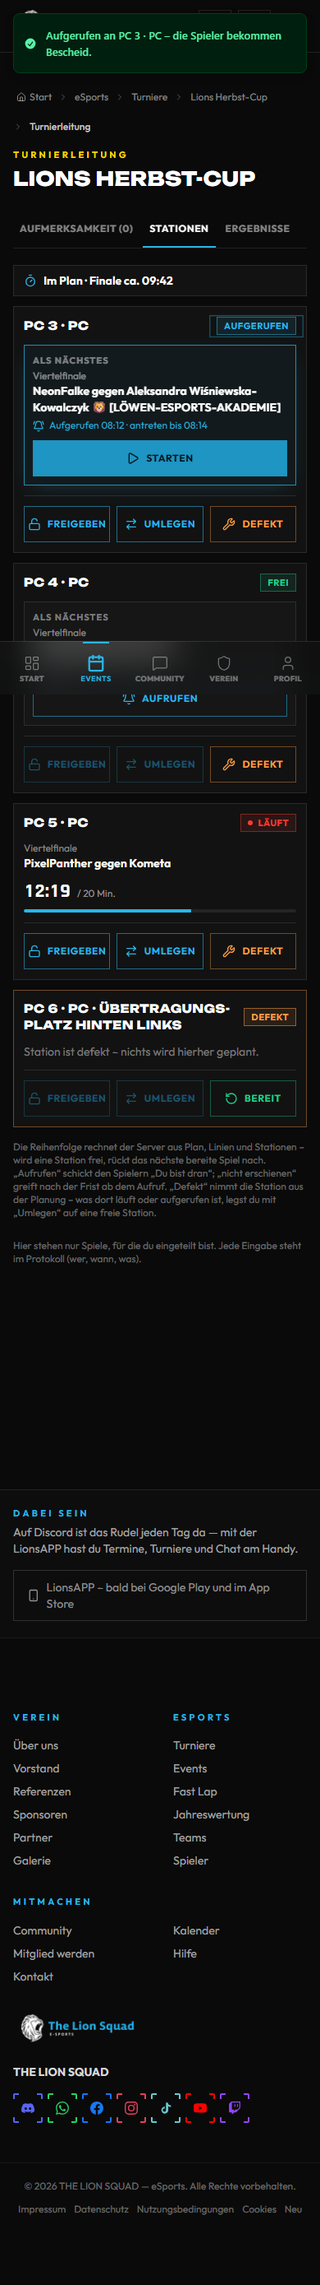
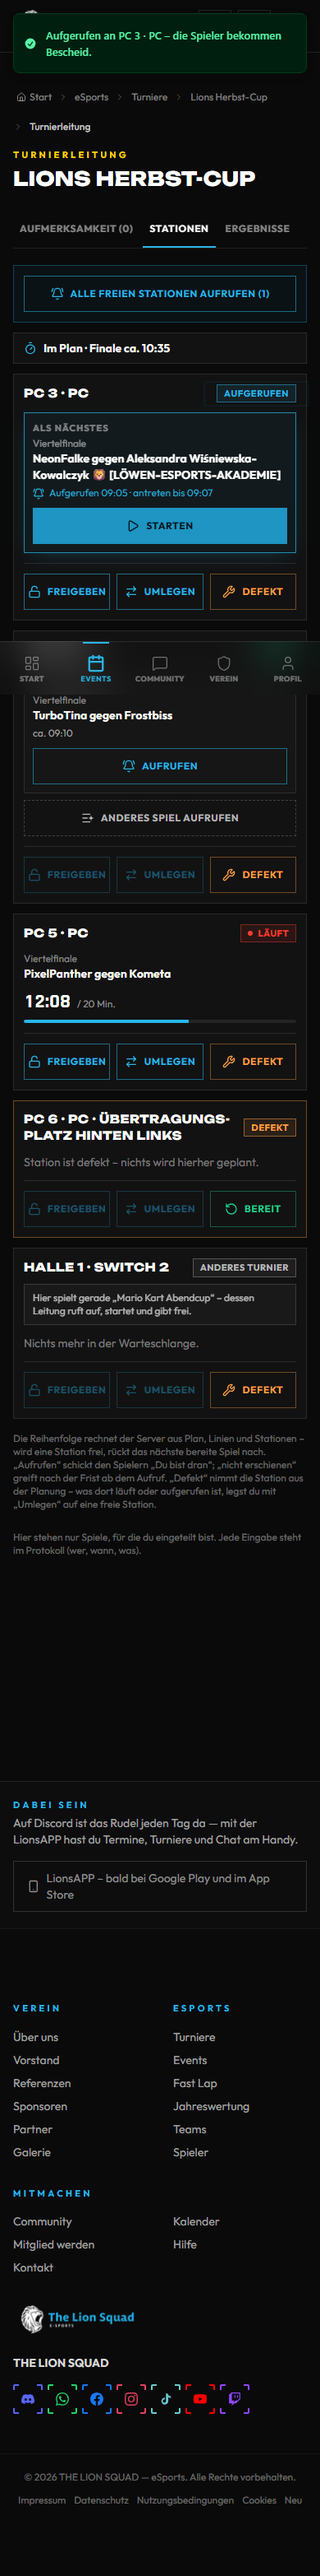
test: Playwright - anderes Spiel aufrufen, geteilte Station und neue Bilder (#1162)

diff --git a/frontend/e2e/station-lead.spec.js b/frontend/e2e/station-lead.spec.js
@@ -34,14 +34,25 @@ function queueOf(world) {
   if (phase === "called") Object.assign(pc3, { status: "reserved", next: entry(a, { state: "called", called_at: world.calledAt, report_by: new Date(Date.parse(world.calledAt) + 2 * 60000).toISOString() }) });
   if (phase === "running") Object.assign(pc3, { status: "busy", next: null, running: entry(a, { state: "running", position: 0, started_at: world.startedAt }) });
   if (phase === "released") Object.assign(pc3, { status: "free", next: null, waiting: 0 });
+  const pc4 = { id: H.stationId("PC 4"), name: "PC 4", station_text: "PC 4 · PC", status: "free", waiting: 1, running: null, next: entry(b, { names: ["TurboTina", "Frostbiss"] }), after: null };
+  // Weitere bereite Spiele für „Anderes Spiel aufrufen“ (#1162) - wie `matches` der echten Antwort.
+  const d = T.find(bracket, "D");
+  const later = (minutes) => new Date(Date.now() + minutes * 60000).toISOString();
+  const matches = Object.fromEntries([
+    pc3.next, pc4.next,
+    entry(d, { names: ["Aurora Blitz", "Zackenbarsch"], forecast_at: later(25) }),
+  ].filter((row) => row && row.state === "queued").map((row) => [row.match_id, row]));
   return {
     applies: true, reason: null, now: new Date().toISOString(), unplaced: [], operate: { all: true, station_ids: [] },
     summary: { delay_minutes: 0, last: { label: "Finale", forecast_at: new Date(Date.now() + 90 * 60000).toISOString() } },
+    matches,
     stations: [
       pc3,
-      { id: H.stationId("PC 4"), name: "PC 4", station_text: "PC 4 · PC", status: "free", waiting: 1, running: null, next: entry(b, { names: ["TurboTina", "Frostbiss"] }), after: null },
+      pc4,
       { id: H.stationId("PC 5"), name: "PC 5", station_text: "PC 5 · PC", status: "busy", waiting: 0, running: entry(c, { state: "running", position: 0, started_at: world.otherStart, names: ["PixelPanther", "Kometa"] }), next: null, after: null },
       { id: H.stationId("PC 6"), name: "PC 6", station_text: "PC 6 · PC · Übertragungsplatz hinten links", status: "broken", waiting: 0, running: null, next: null, after: null },
+      // Geteilte Station des Events, an der gerade ein anderes Turnier spielt (#1162).
+      { id: "st-halle", name: "Halle 1", station_text: "Halle 1 · Switch 2", status: "reserved", waiting: 0, running: null, next: null, after: null, hold_issue: { kind: "other", tournament_title: "Mario Kart Abendcup" } },
     ],
   };
 }
@@ -150,6 +161,20 @@ test.describe("Stationen in der Turnierleitung", () => {
         expect(posts.map(([kind]) => kind)).toEqual(["call", "start", "release"]);
         expect(posts.every(([, body]) => body.station_id === pc3 && body.match_id === matchA)).toBe(true);
         expect(await tvPage.evaluate(() => window.__ohneNeuladen)).toBe(true);
+
+        // 4. Anderes Spiel aufrufen: alle bereiten Spiele, „Als Nächstes“ oben, dann nach Prognose.
+        const pc4 = H.stationId("PC 4");
+        await page.getByTestId(`live-pick-${pc4}`).click();
+        const picker = page.getByTestId(`live-pick-list-${pc4}`);
+        await expect(picker.locator("button").first()).toContainText("Als Nächstes");
+        await expect(picker.locator("button")).toHaveCount(2);
+        if (width === 390) {
+          await page.waitForTimeout(400);
+          await picker.scrollIntoViewIfNeeded();
+          const body = await page.screenshot();
+          await testInfo.attach("1162-anderes-spiel-390.png", { body, contentType: "image/png" });
+          if (shots) require("node:fs").writeFileSync(path.join(shots, "1162-anderes-spiel-390.png"), body);
+        }
       } finally {
         await context.close();
       }
